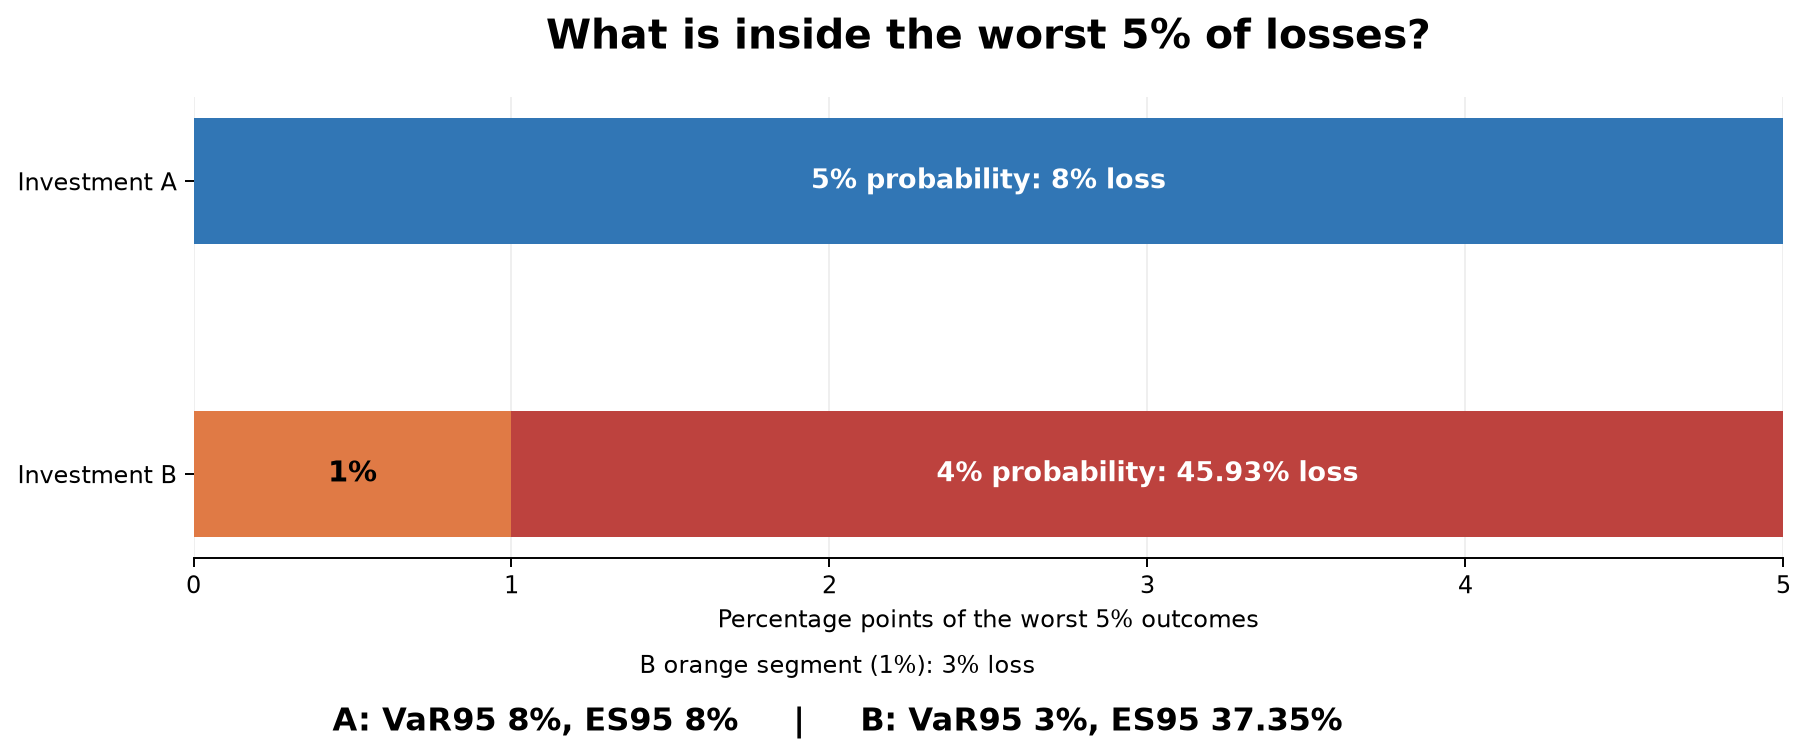
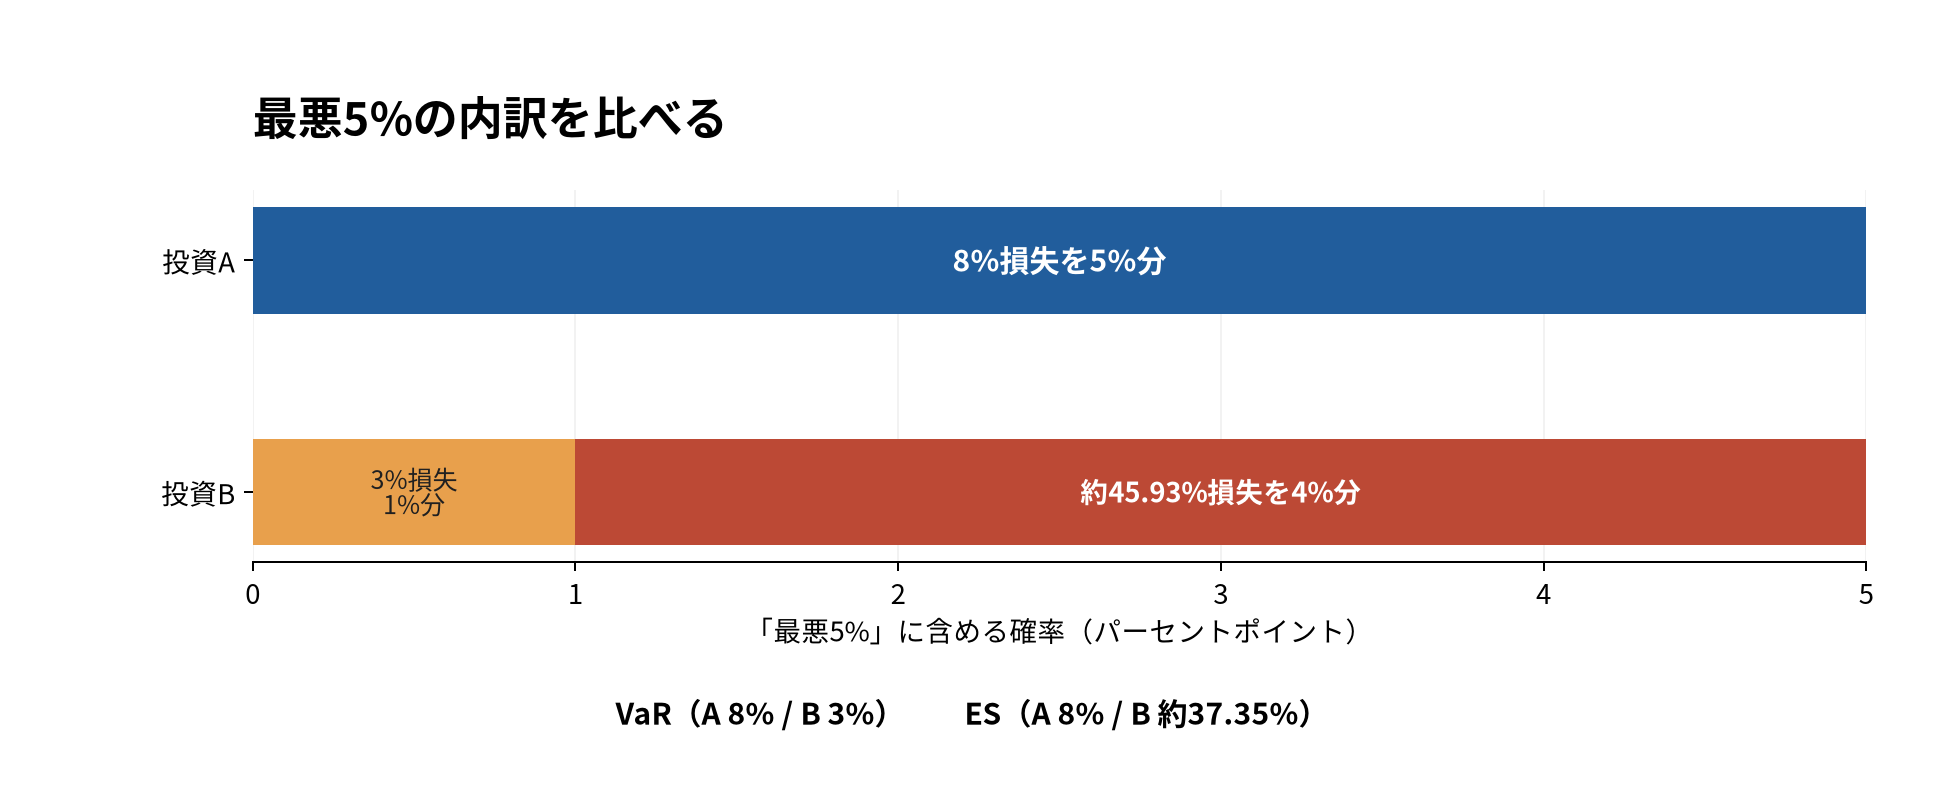
Refine VaR ES Zenn draft after twenty review cycles
* Apply twenty review rounds to VaR/ES Zenn draft

* Align Python reproduction and assertions with reviewed draft

* Align R reproduction with reviewed VaR ES example

* Generate updated Japanese figures with real return-scale x-axis

* Generate reviewed VaR ES figures once on review branch

* Refresh Japanese VaR ES figures after twenty reviews

* Remove temporary figure-generation workflow after refresh

---------

diff --git a/code/var-es-risk-ranking/figures.py b/code/var-es-risk-ranking/figures.py
@@ -1,71 +1,70 @@
-"""Draw reproducible figures for the VaR/ES article (PNG, Zenn-ready)."""
+"""Generate two reader-friendly Japanese figures for the VaR/ES draft.
+Run: python code/var-es-risk-ranking/figures.py from the repository root.
+"""
+import sys
 from pathlib import Path
 import matplotlib
 matplotlib.use("Agg")
 import matplotlib.pyplot as plt
+from matplotlib import font_manager
 import numpy as np
 
-from python import distributions, metrics
-
-OUT = Path(__file__).resolve().parents[2] / "images"
+HERE=Path(__file__).resolve().parent
+ROOT=HERE.parents[1]
+OUT=ROOT/'images'
 OUT.mkdir(exist_ok=True)
-D = distributions()
-BLUE = "#3176b5"
-ORANGE = "#e07a45"
-RED = "#bd423e"
+sys.path.insert(0,str(HERE))
+from python import distributions, metrics  # noqa: E402
 
-# Figure 1: discrete probability masses. The x positions are outcome
-# categories, NOT a continuous return scale.
-fig, ax = plt.subplots(1, 2, figsize=(11.5, 4.9), sharey=True)
-for a, (name, (returns, prob)) in zip(ax, D.items()):
-    bars = a.bar(np.arange(len(prob)), 100 * prob,
-                 color=BLUE if name == "A" else ORANGE, width=0.62)
-    a.set_xticks(np.arange(len(prob)))
-    a.set_xticklabels([f"{v:+.2f}%" for v in returns], fontsize=10)
-    a.set_title(f"Investment {name}", fontsize=16, weight="bold")
-    a.set_ylim(0, 105)
-    a.set_ylabel("Probability (%)")
-    a.set_xlabel("Return outcomes (categories)")
-    a.spines[["top", "right"]].set_visible(False)
-    for bar, p in zip(bars, prob):
-        a.text(bar.get_x() + bar.get_width()/2, bar.get_height()+2,
-               f"{p:.0%}", ha="center", fontsize=12, weight="bold")
-    mean, sd, *_ = metrics(returns, prob)
-    a.text(0.5, 0.96, f"Mean {mean:.0f}%   SD {sd:.0f}%",
-           transform=a.transAxes, ha="center", va="top", fontsize=11)
-fig.suptitle("Equal mean and SD, different probability distributions",
-             fontsize=16, weight="bold", y=1.03)
-fig.tight_layout()
-fig.savefig(OUT / "var-es-risk-ranking-distributions.png",
-            dpi=175, bbox_inches="tight")
+names=[p.name for p in font_manager.fontManager.ttflist]
+if 'Noto Sans CJK JP' in names:
+    plt.rcParams['font.family']='Noto Sans CJK JP'
+plt.rcParams['axes.unicode_minus']=False
+plt.rcParams['font.size']=11
+
+D=distributions()
+colors={'A':'#215d9c','B':'#bc5726'}
+fig, axes=plt.subplots(2,1,figsize=(10.9,7.8),sharex=True)
+for ax,(name,(r,p)) in zip(axes,D.items()):
+    x=r
+    height=p*100
+    ax.vlines(x,0,height,color=colors[name],linewidth=3,alpha=.9)
+    ax.scatter(x,height,s=110,color=colors[name],zorder=3)
+    for xi,yi in zip(x,height):
+        ax.annotate(f'{yi:.0f}%',(xi,yi),xytext=(0,8),textcoords='offset points',ha='center',fontsize=11,weight='bold')
+    mean,sd,*_=metrics(r,p)
+    ax.set_title(f'投資{name} ｜ 期待リターン {mean:.0f}% ・ 標準偏差 {sd:.0f}%',fontsize=14,loc='left',pad=15)
+    ax.set_ylim(0,108)
+    ax.set_ylabel('発生確率（%）')
+    ax.grid(axis='y',alpha=.16)
+    ax.spines[['right','top']].set_visible(False)
+    ax.set_yticks([0,25,50,75,100])
+    for xi,yi in zip(x,height):
+        ax.text(xi,30 if yi < 20 else 12,f'{xi:+.2f}%',ha='center',va='bottom',fontsize=10,color=colors[name])
+axes[-1].set_xlim(-52,18)
+axes[-1].set_xticks([-50,-40,-30,-20,-10,0,10])
+axes[-1].set_xlabel('一期間のリターン（%）',labelpad=11)
+fig.suptitle('平均と標準偏差が同じでも、分布の形は違う',fontsize=18,weight='bold',y=.995)
+fig.subplots_adjust(hspace=.48,left=.10,right=.97,top=.89,bottom=.10)
+fig.savefig(OUT/'var-es-risk-ranking-distributions.png',dpi=180)
 plt.close(fig)
 
-# Figure 2: represent exactly 5 percentage points of tail probability.
-# Bar lengths are probability mass, not loss magnitude.
-fig, ax = plt.subplots(figsize=(11.5, 4.7))
-ax.barh("Investment A", 5, color=BLUE, height=0.43)
-ax.barh("Investment B", 1, color=ORANGE, height=0.43)
-ax.barh("Investment B", 4, left=1, color=RED, height=0.43)
-ax.text(2.5, 0, "5% probability: 8% loss", ha="center", va="center",
-        color="white", fontsize=11, weight="bold")
-ax.text(0.5, 1, "1%", ha="center", va="center", fontsize=12, weight="bold")
-ax.text(3, 1, "4% probability: 45.93% loss", ha="center", va="center",
-        color="white", fontsize=11, weight="bold")
-ax.set_xlim(0, 5)
-ax.set_xlabel("Percentage points of the worst 5% outcomes")
+fig,ax=plt.subplots(figsize=(10.8,4.4))
+ax.barh('投資A',5,height=.46,color='#215d9c')
+ax.barh('投資B',1,height=.46,color='#e8a04c')
+ax.barh('投資B',4,left=1,height=.46,color='#bc4935')
 ax.invert_yaxis()
-ax.set_title("What is inside the worst 5% of losses?",
-             fontsize=17, weight="bold", pad=20)
-ax.spines[["top", "right", "left"]].set_visible(False)
-ax.grid(axis="x", alpha=0.2)
+ax.set_xlim(0,5)
+ax.set_xlabel('「最悪5%」に含める確率（パーセントポイント）')
+ax.set_title('最悪5%の内訳を比べる',loc='left',fontsize=18,weight='bold',pad=22)
+ax.text(2.5,0,'8%損失を5%分',ha='center',va='center',color='white',weight='bold',fontsize=12)
+ax.text(.5,1,'3%損失\n1%分',ha='center',va='center',color='#202020',fontsize=10)
+ax.text(3,1,'約45.93%損失を4%分',ha='center',va='center',color='white',weight='bold',fontsize=11)
+ax.grid(axis='x',alpha=.16)
 ax.set_axisbelow(True)
-fig.text(0.5, 0.04,
-         "A: VaR95 8%, ES95 8%     |     B: VaR95 3%, ES95 37.35%",
-         ha="center", fontsize=13, weight="bold")
-fig.text(0.5, 0.11, "B orange segment (1%): 3% loss",
-         ha="center", fontsize=10)
-fig.subplots_adjust(bottom=0.25, top=0.81, left=0.18, right=0.97)
-fig.savefig(OUT / "var-es-risk-ranking-tail.png",
-            dpi=175, bbox_inches="tight")
+ax.spines[['top','right','left']].set_visible(False)
+fig.text(.5,.085,'VaR（A 8% / B 3%）　　ES（A 8% / B 約37.35%）',ha='center',fontsize=12,weight='bold')
+fig.subplots_adjust(top=.76,bottom=.29,left=.13,right=.96)
+fig.savefig(OUT/'var-es-risk-ranking-tail.png',dpi=180)
 plt.close(fig)
-print("Generated figures in", OUT)
+print('Created two figures in',OUT)

diff --git a/code/var-es-risk-ranking/python.py b/code/var-es-risk-ranking/python.py
@@ -1,65 +1,76 @@
-"""Analytic example for VaR/ES ranking reversal. Returns and losses are in percent."""
+"""Reproduce the discrete return example used by the VaR/ES article.
+
+Returns, standard deviations, VaR and ES are expressed in percent (not fractions).
+Only NumPy is required.
+"""
 import numpy as np
 
-TAIL = 0.05
-TARGET_MEAN = 2.0  # shift in percentage points
+EXPECTED_RETURN = 2.0
+STANDARD_DEVIATION = 10.0
+CONFIDENCE = 0.95
 
 
 def distributions():
-    a = (np.array([-10.0, 10.0]) + TARGET_MEAN, np.array([0.5, 0.5]))
+    a = (np.array([-8.0, 12.0]), np.array([0.50, 0.50]))
     p, q, r = 0.04, 0.08, 0.88
-    middle = -5.0
-    # Let bad return x, good return z. First solve the centered mean-zero case with Var(R) = 100.
-    # z = -(p*x + q*middle)/r; solve variance as a quadratic in x.
+    # Work with excess returns relative to the targeted 2% mean.
+    middle_c = -5.0
     roots = np.roots([
         p + p**2 / r,
-        2 * p * q * middle / r,
-        q * middle**2 + (q * middle)**2 / r - 100.0,
+        2 * p * q * middle_c / r,
+        q * middle_c**2 + (q * middle_c)**2 / r - STANDARD_DEVIATION**2,
     ])
-    bad = float(min(roots))
-    good = -(p * bad + q * middle) / r
-    b = (np.array([bad, middle, good]) + TARGET_MEAN, np.array([p, q, r]))
+    bad_c = float(min(roots))
+    good_c = -(p * bad_c + q * middle_c) / r
+    b = (
+        np.array([bad_c, middle_c, good_c]) + EXPECTED_RETURN,
+        np.array([p, q, r]),
+    )
     return {"A": a, "B": b}
 
 
-def metrics(returns, probs, alpha=0.95):
-    assert np.isclose(probs.sum(), 1)
+def metrics(returns, probs, alpha=CONFIDENCE):
+    returns, probs = np.asarray(returns), np.asarray(probs)
+    assert len(returns) == len(probs)
+    assert all(probs >= 0) and np.isclose(probs.sum(), 1)
+    assert 0 < alpha < 1
     mean = float(np.dot(returns, probs))
-    sd = float(np.sqrt(np.dot(probs, (returns - mean) ** 2)))
+    sd = float(np.sqrt(np.dot(probs, (returns - mean)**2)))
     losses = -returns
-    asc = np.argsort(losses)
-    cdf = np.cumsum(probs[asc])
-    var = float(losses[asc][np.searchsorted(cdf, alpha, side="left")])
-    # Average the worst 1-alpha fraction. Trim atoms at the boundary.
-    remain = 1 - alpha
-    es_mass = 0.0
-    for idx in np.argsort(losses)[::-1]:
-        mass = min(float(probs[idx]), remain)
-        es_mass += mass * float(losses[idx])
-        remain -= mass
-        if remain < 1e-12:
+    order_asc = np.argsort(losses)
+    var = float(losses[order_asc][np.searchsorted(
+        np.cumsum(probs[order_asc]), alpha, side='left')])
+    mass_to_select = 1 - alpha
+    weighted_loss = 0.0
+    for ix in np.argsort(losses)[::-1]:
+        selected = min(float(probs[ix]), mass_to_select)
+        weighted_loss += selected * float(losses[ix])
+        mass_to_select -= selected
+        if mass_to_select < 1e-12:
             break
-    es = es_mass / (1 - alpha)
+    es = weighted_loss / (1 - alpha)
     return mean, sd, var, es
 
 
 def main():
-    print("Scenario   E[R]      SD       VaR95      ES95   (all %)")
-    values = {}
-    for name, (returns, probs) in distributions().items():
-        values[name] = metrics(returns, probs)
-        print(f"{name:>4}   " + "  ".join(f"{v:9.4f}" for v in values[name]))
-        print("        returns:", [round(v, 6) for v in returns])
-        print("        probs  :", probs.tolist())
-    a, b = values["A"], values["B"]
-    assert np.allclose(a[:2], [2.0, 10.0])
-    assert np.allclose(b[:2], [2.0, 10.0], atol=1e-10)
-    assert np.allclose(a[2:], [8.0, 8.0])
-    assert np.isclose(b[2], 3.0)
-    assert np.isclose(b[3], 37.34538341093389)
-    assert a[2] > b[2] and a[3] < b[3]
-    print("Checks passed: VaR and ES ranking reversal.")
+    result = {}
+    print('Scenario, mean, sd, VaR95, ES95 (all values in %)')
+    for label, (ret, prob) in distributions().items():
+        result[label] = metrics(ret, prob)
+        print(label, [round(x, 6) for x in result[label]])
+        print('return outcomes:', [round(float(x), 6) for x in ret])
+        print('probabilities:', prob.tolist())
+    assert np.allclose(result['A'], [2, 10, 8, 8], atol=1e-10)
+    assert np.allclose(result['B'], [2, 10, 3, 37.34538341093389], atol=1e-10)
+    assert result['A'][2] > result['B'][2] and result['A'][3] < result['B'][3]
+    # Translation invariance: shifting returns by +2 keeps SD and changes losses by -2.
+    for label, (ret, prob) in distributions().items():
+        zero_mean = metrics(ret - 2, prob)
+        positive_mean = metrics(ret, prob)
+        assert np.allclose(positive_mean, [zero_mean[0] + 2, zero_mean[1],
+                                           zero_mean[2] - 2, zero_mean[3] - 2])
+    print('All checks passed.')
 
 
-if __name__ == "__main__":
+if __name__ == '__main__':
     main()
